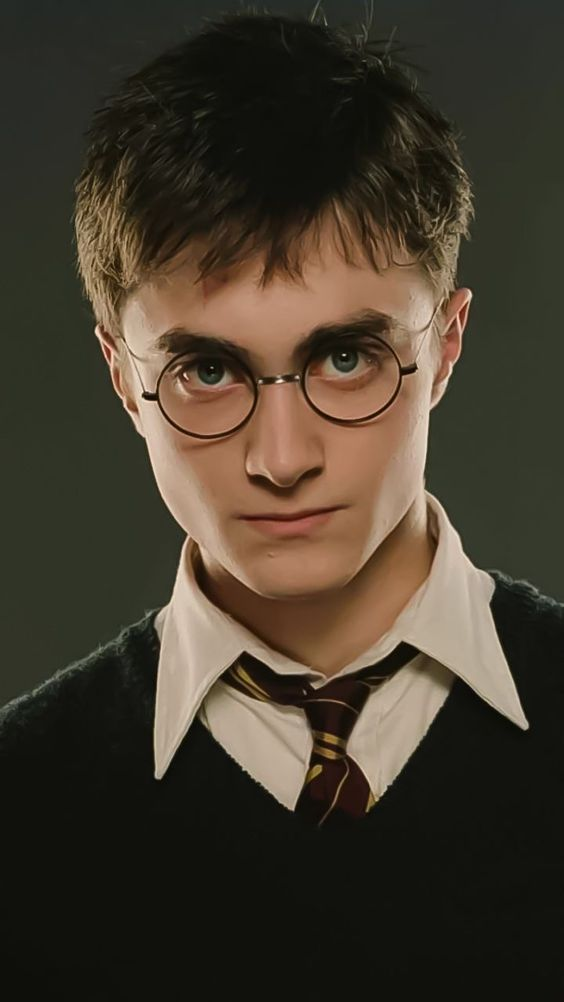
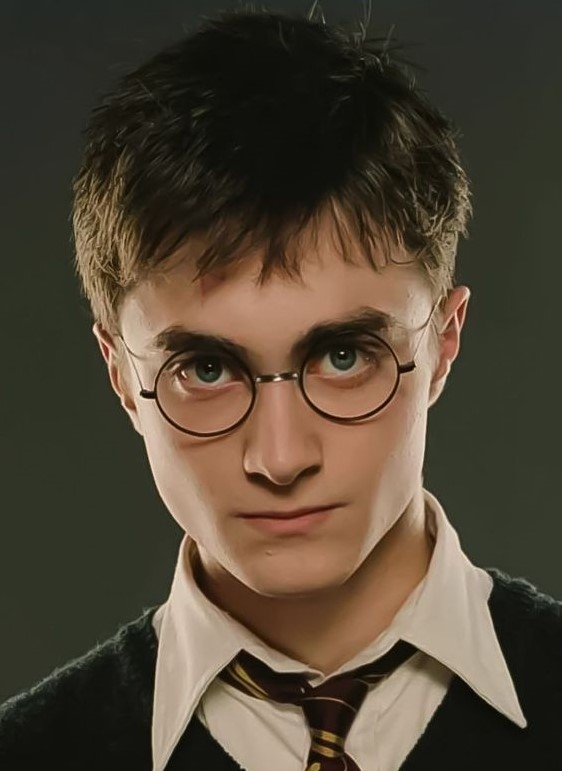
team

diff --git a/src/index.html b/src/index.html
@@ -204,6 +204,128 @@
         </div>
       </section>
 
+      <section class="team">
+        <div class="container">
+            <div class="wrapper_team">
+                <div class="card_team">
+                    <div class="img_team">
+                        <img src="./img/icon_team/Harry.jpg">
+                    </div>
+                    <div class="info_card">
+                        <div class="name_team">
+                            <h5 class="name_person">Harry Potter</h5>
+                            <div class="name_prifession">
+                                <p>founder, ceo</p>
+                            </div>
+                            <div class="description_team">
+                                <p>
+                                    Fusce dapibus, tellus ac cursus commodo, tortor mauris condimentum nibh, ut fermentum massa justo sit amet risus. Maecenas sed diam eget risus varius blandit sit amet non magna. Nullam quis risus eget urna mollis ornare vel eu leo. 
+                                </p>
+                            </div>
+                            <div class="img_social">
+                                <div class="facebook">
+                                    <img src="./img/icon_team/facebook_icon.png">
+                                </div>
+                                <div class="twitter">
+                                    <img src="./img/icon_team/twitter_icon.png">
+                                </div>
+                                <div class="linkedin">
+                                    <img src="./img/icon_team/linkedin_icon.png">
+                                </div>
+                            </div>
+                        </div>
+                    </div>
+                </div>
+                <div class="card_team">
+                    <div class="img_team">
+                        <img src="./img/icon_team/Ron.jpg">
+                    </div>
+                    <div class="info_card">
+                        <div class="name_team">
+                            <h5 class="name_person">Ron Weasley</h5>
+                            <div class="name_prifession">
+                                <p>co-founder, developer</p>
+                            </div>
+                            <div class="description_team">
+                                <p>
+                                    Fusce dapibus, tellus ac cursus commodo, tortor mauris condimentum nibh, ut fermentum massa justo sit amet risus. Maecenas sed diam eget risus varius blandit sit amet non magna. Nullam quis risus eget urna mollis ornare vel eu leo. 
+                                </p>
+                            </div>
+                            <div class="img_social">
+                                <div class="facebook">
+                                    <img src="./img/icon_team/facebook_icon.png">
+                                </div>
+                                <div class="twitter">
+                                    <img src="./img/icon_team/twitter_icon.png">
+                                </div>
+                                <div class="linkedin">
+                                    <img src="./img/icon_team/linkedin_icon.png">
+                                </div>
+                            </div>
+                        </div>
+                    </div>
+                </div>
+                <div class="card_team">
+                    <div class="img_team">
+                        <img src="./img/icon_team/Hermione.jpg">
+                    </div>
+                    <div class="info_card">
+                        <div class="name_team">
+                            <h5 class="name_person">Hermione Granger</h5>
+                            <div class="name_prifession">
+                                <p>ui designer</p>
+                            </div>
+                            <div class="description_team">
+                                <p>
+                                    Fusce dapibus, tellus ac cursus commodo, tortor mauris condimentum nibh, ut fermentum massa justo sit amet risus. Maecenas sed diam eget risus varius blandit sit amet non magna. Nullam quis risus eget urna mollis ornare vel eu leo. 
+                                </p>
+                            </div>
+                            <div class="img_social">
+                                <div class="facebook">
+                                    <img src="./img/icon_team/facebook_icon.png">
+                                </div>
+                                <div class="twitter">
+                                    <img src="./img/icon_team/twitter_icon.png">
+                                </div>
+                                <div class="linkedin">
+                                    <img src="./img/icon_team/linkedin_icon.png">
+                                </div>
+                            </div>
+                        </div>
+                    </div>
+                </div>
+                <div class="card_team">
+                    <div class="img_team">
+                        <img src="./img/icon_team/draco04.jpg">
+                    </div>
+                    <div class="info_card">
+                        <div class="name_team">
+                            <h5 class="name_person">Draco Malfoy</h5>
+                            <div class="name_prifession">
+                                <p>data scientist</p>
+                            </div>
+                            <div class="description_team">
+                                <p>
+                                    Fusce dapibus, tellus ac cursus commodo, tortor mauris condimentum nibh, ut fermentum massa justo sit amet risus. Maecenas sed diam eget risus varius blandit sit amet non magna. Nullam quis risus eget urna mollis ornare vel eu leo. 
+                                </p>
+                            </div>
+                            <div class="img_social">
+                                <div class="icon_social">
+                                    <img src="./img/icon_team/facebook_icon.png">
+                                </div>
+                                <div class="icon_social">
+                                    <img src="./img/icon_team/twitter_icon.png">
+                                </div>
+                                <div class="linkedin">
+                                    <img src="./img/icon_team/linkedin_icon.png">
+                                </div>
+                            </div>
+                        </div>
+                    </div>
+                </div>
+            </div>
+        </div>
+      </section>
 
 
        

diff --git a/src/scss/team.scss b/src/scss/team.scss
@@ -1,0 +1,78 @@
+.team {
+    padding: 114px 0;
+}
+.container {
+}
+.wrapper_team {
+    display: flex;
+    margin: 0 -15px;
+}
+.card_team {
+ max-width: 270px;
+ margin: 0 15px;
+}
+.img_team {
+    max-width: 270px;
+    height: 270px;
+    overflow: hidden;
+    margin-bottom: 30px;
+    img {
+        width: 100%;
+        height: 100%;
+        object-fit: cover;
+        
+    }
+}
+.info_card {
+    text-align: left;
+}
+.name_team {
+
+
+}
+.name_person {
+    color: #2D3033;
+    font-family: "Raleway";
+    font-size: 24px;
+    font-style: normal;
+    font-weight: 700;
+    line-height: normal;
+    text-transform: capitalize;
+    margin-bottom: 20px;
+}
+.name_prifession {
+    color: #FF4343;
+    font-family: "Raleway";
+    font-size: 18px;
+    font-style: normal;
+    font-weight: 400;
+    line-height: normal;
+    text-transform: uppercase; 
+    margin-bottom: 24px;   
+}
+.description_team {
+    color: #6C7279;
+    font-family: "Raleway";
+    font-size: 18px;
+    font-style: normal;
+    font-weight: 400;
+    line-height: normal;
+    margin-bottom: 38px;
+}
+.img_social {
+    width: 39px;
+    height: 39px;
+    display: flex;
+    justify-content: end;
+   
+
+}
+.icon_social {
+  
+}
+.facebook {
+}
+.twitter {
+}
+.linkedin {
+}

diff --git a/src/scss/index.scss b/src/scss/index.scss
@@ -2,6 +2,7 @@
 @import "../scss/header";
 @import "../scss/features";
 @import "../scss/works";
+@import "../scss/team";
 
 * {
   margin: 0;
